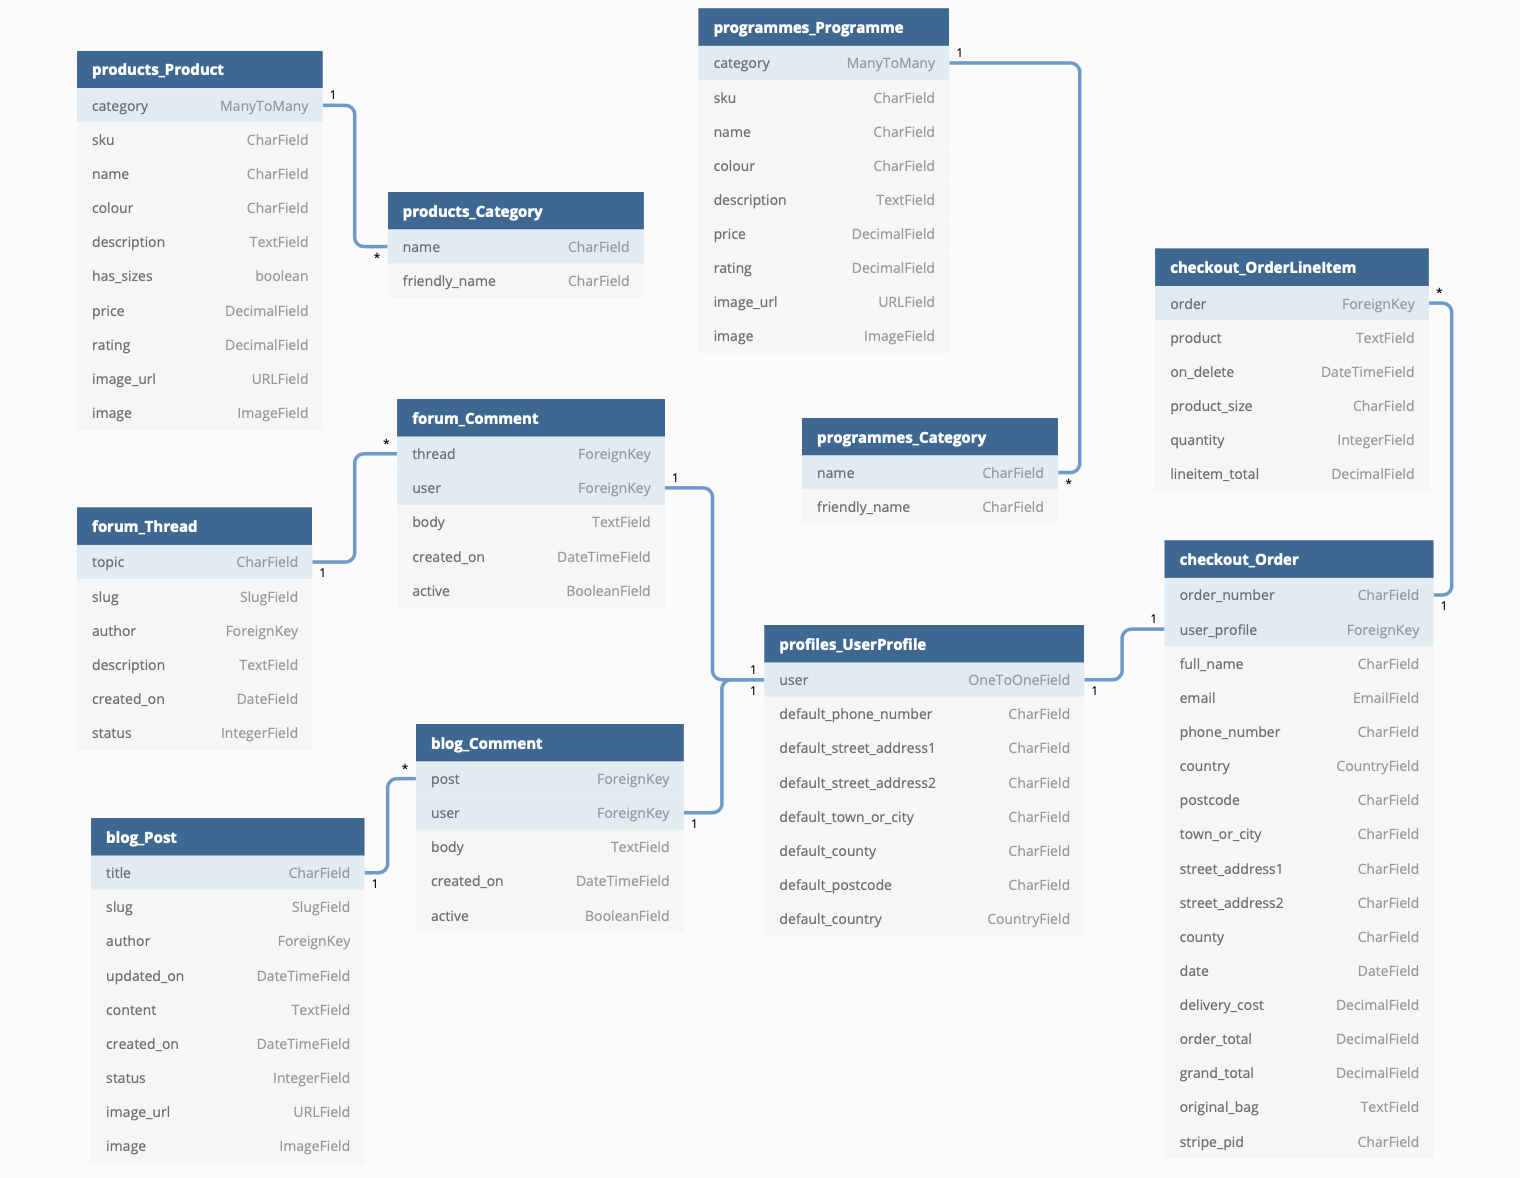
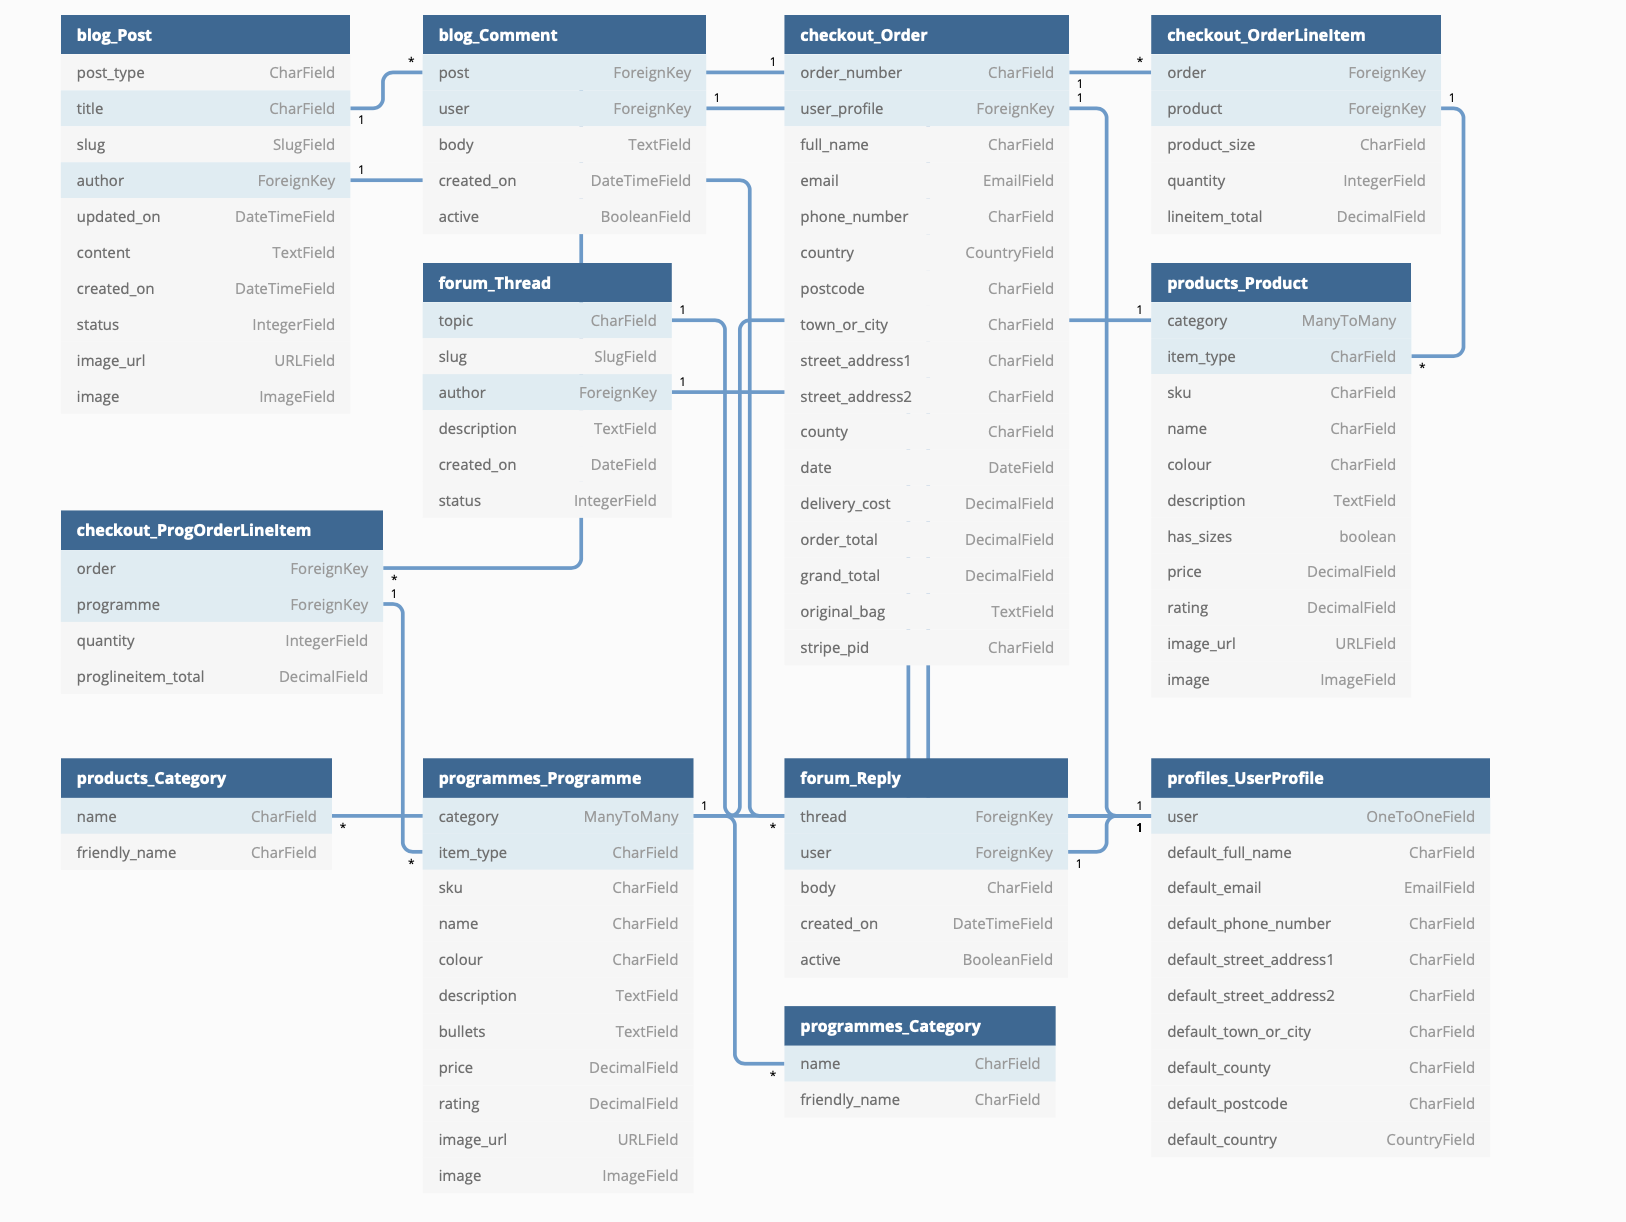
updated data schema

diff --git a/README.md b/README.md
@@ -136,8 +136,8 @@ The **Category model** within the programmes app, is used to group programmes in
 
 The **UserProfile** model within the profiles app is used to store users profile information and is connected to various apps for other benefits;
 - Checkout app - to store users checkout information, as well as order history.
-- Blog app - allows users to leave a comment with their username automatically displayed.
-- Forum appp - allows users to leave a comment with their username automatically displayed.
+- Blog app - to store name of user who created the blog and allows users to leave a comment with their username automatically displayed.
+- Forum appp - to store name of user who created thread allows users to leave a comment with their username automatically displayed.
 
 The **Post model** within the blog app, is used to store posts added by the admin user.
 The **Comments model** within the blog app, is used to store comments added by the user who is logged in.
@@ -146,7 +146,8 @@ The **Thread model** within the forum app, is used to store threads added by the
 The **Comment model** within the forum app, is used to store comments made by the user logged in.
 
 The **Order model** within the checkout app, is used to store orders.
-The **OrderLineItem model** within the checkout app, is used to store information about individual orders.
+The **OrderLineItem model** within the checkout app, is used to store information about individual products on the order.
+The **ProgOrderLineItem model** within the checkout app, is used to store information about individual programmes on the order.
 
 ### **<u>User Stories</u>**
 
